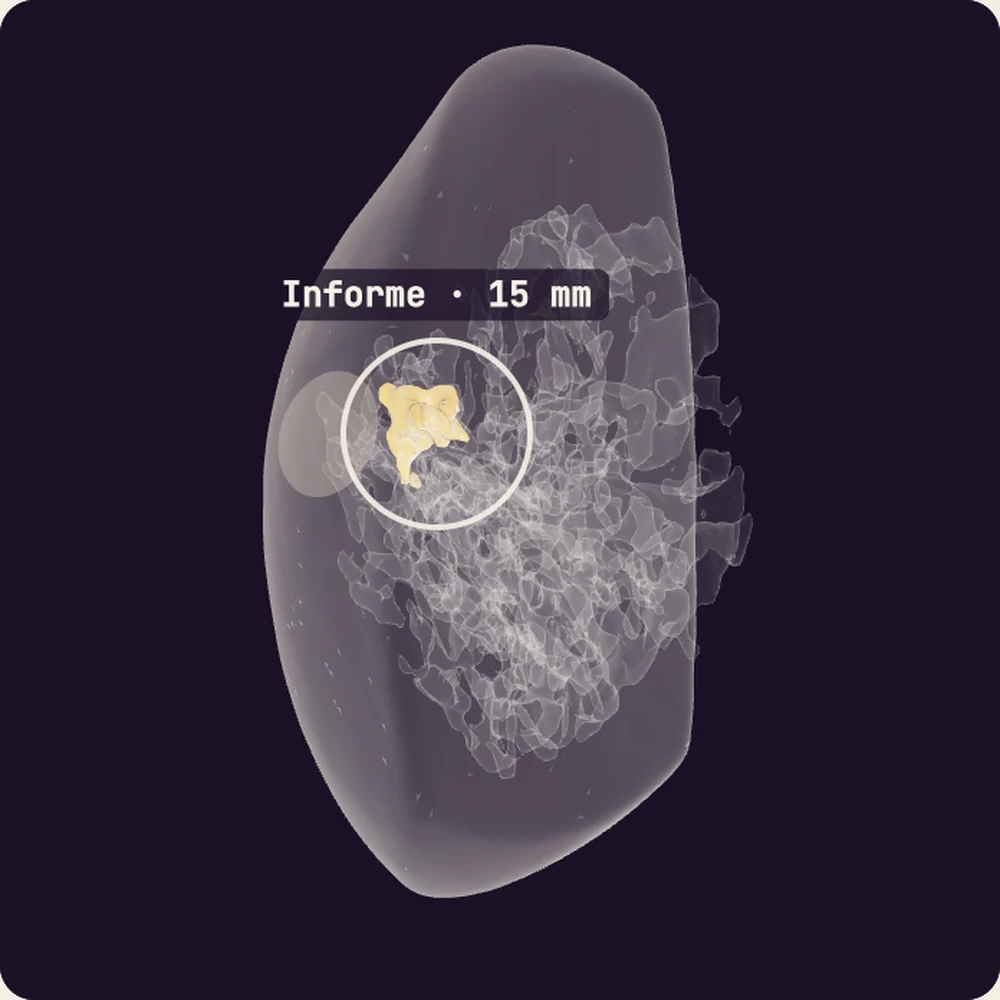
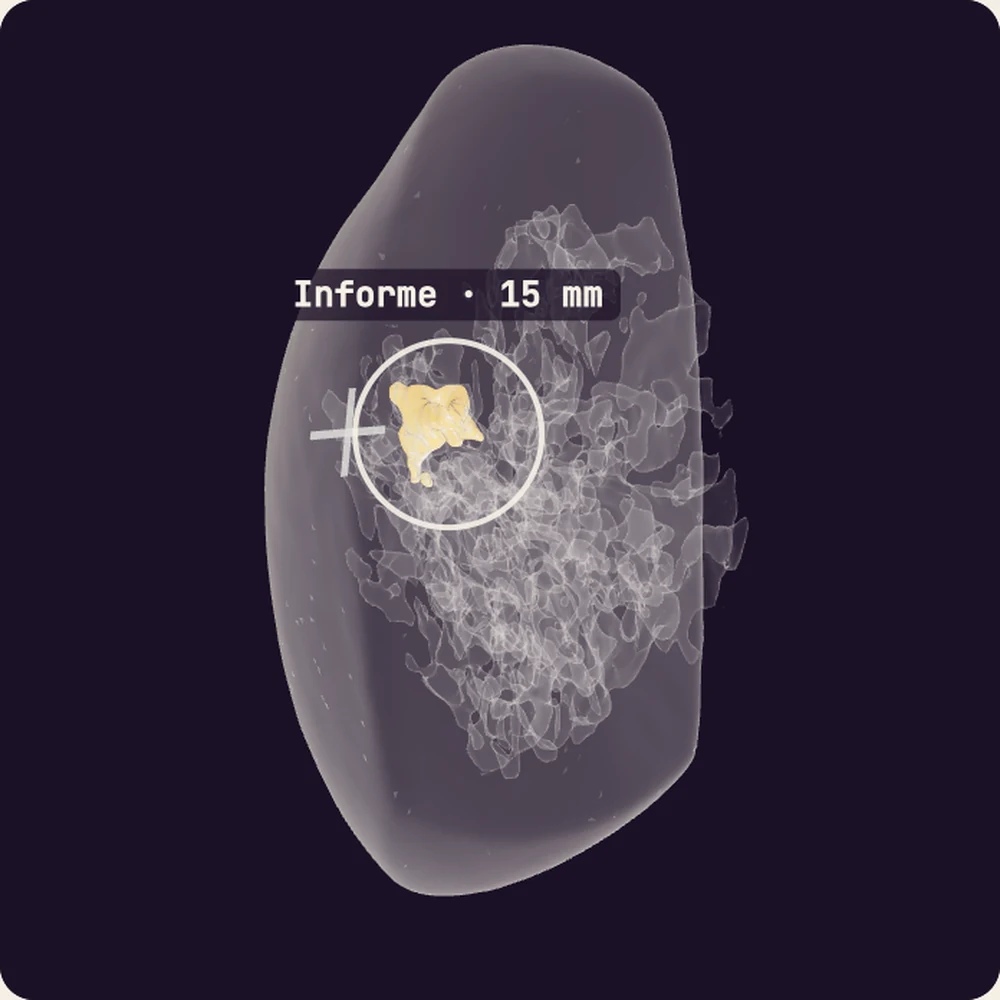
fix(lesiones): la marca del pezón es una cruz, no un círculo
Miriam: «con un círculo se va a confundir». Y tenía razón antes de que yo lo viera: la lesión
está a 22 mm del pezón y ya lleva su anillo, así que cualquier cosa redonda al lado compite con
él. Dos círculos casi superpuestos no informan, estorban.

Cruz, entonces. Y en 3D sobre la superficie, orientada por la normal de la mama en ese punto,
así que gira con la pieza en vez de flotar pegada a la pantalla, que es lo que ella pedía
(«algo así en la capa de relieve esa»).

diff --git a/app/components/BreastView.client.vue b/app/components/BreastView.client.vue
@@ -190,15 +190,21 @@ async function init() {
     // dónde está el pezón sin dibujar relieve ninguno.
     if (!pezon3) return
     const fuera = pezon3.clone().multiplyScalar(2)
-    // Un disco SIN contorno, no un aro: el aro competía con el anillo de la lesión, que está a
-    // 22 mm, y salían dos círculos peleándose. Así se lee como una zona sombreada sobre la piel,
-    // que es lo que hace que la pieza se reconozca como una mama.
-    const areola = new THREE.Mesh(
-      new THREE.CircleGeometry(12, 64),
-      new THREE.MeshBasicMaterial({ color: 0xcdb9a4, transparent: true, opacity: 0.42,
-        side: THREE.DoubleSide, depthWrite: false }))
-    areola.position.copy(pezon3); areola.lookAt(fuera); areola.renderOrder = 7
-    scene.add(areola)
+    // Una CRUZ, no un círculo ni un aro: la lesión está a 22 mm y ya lleva su anillo, así que
+    // cualquier cosa redonda aquí se confunde con ella (Miriam lo vio antes que yo). La cruz es
+    // una marca distinta a simple vista, y va SOBRE la superficie, orientada por la normal de la
+    // mama en ese punto, de modo que gira con la pieza en vez de flotar pegada a la pantalla.
+    const grupo = new THREE.Group()
+    const tinta = new THREE.MeshBasicMaterial({ color: 0xf5efe6, transparent: true,
+      opacity: 0.85, side: THREE.DoubleSide, depthWrite: false })
+    for (const giro of [0, Math.PI / 2]) {
+      const barra = new THREE.Mesh(new THREE.PlaneGeometry(17, 1.6), tinta)
+      barra.rotation.z = giro
+      grupo.add(barra)
+    }
+    grupo.position.copy(pezon3); grupo.lookAt(fuera); grupo.renderOrder = 7
+    grupo.traverse((o) => { (o as THREE.Mesh).renderOrder = 7 })
+    scene.add(grupo)
   }
   malla(gt, tejidoMat(THREE.BackSide), 3)   // caras de detrás primero…
   malla(gt, tejidoMat(THREE.FrontSide), 4)  // …y las de delante encima
@@ -300,8 +306,8 @@ onBeforeUnmount(() => {
         {{ L('Contorno de la mama, para situar el tumor dentro de ella', 'Outline of the breast, to place the tumour inside it') }}
       </li>
       <li class="flex items-start gap-1.5">
-        <span class="inline-block w-2.5 h-2.5 mt-[3px] shrink-0 rounded-full" style="background:#cdb9a4" aria-hidden="true" />
-        {{ L('La zona sombreada marca la areola, que es la referencia para orientarse en una mama; su relieve no está en el modelo', 'The shaded patch marks the areola, the reference point for orienting yourself on a breast; its relief is not in the model') }}
+        <span class="inline-block w-2.5 h-2.5 mt-[2px] shrink-0 text-[13px] leading-none text-center text-berenjena" aria-hidden="true">+</span>
+        {{ L('La cruz marca el pezón, que es la referencia para orientarse en una mama; su relieve no está en el modelo', 'The cross marks the nipple, the reference point for orienting yourself on a breast; its relief is not in the model') }}
       </li>
     </ul>
     <p v-if="!loading && !failed" class="mt-1.5 text-[11px] text-tinta leading-snug">
